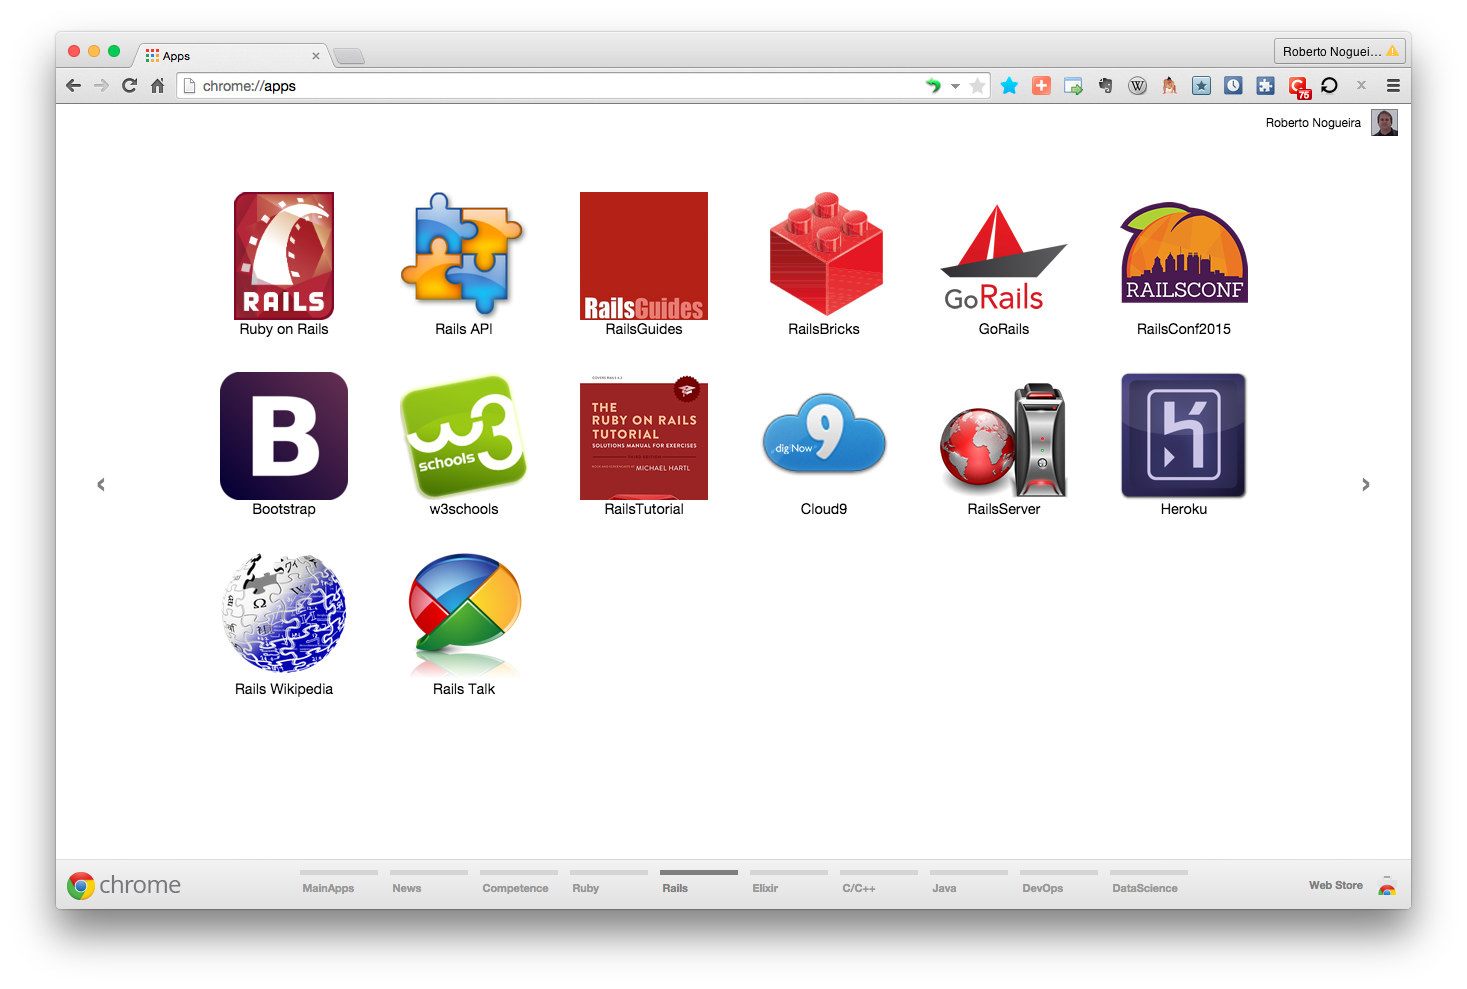
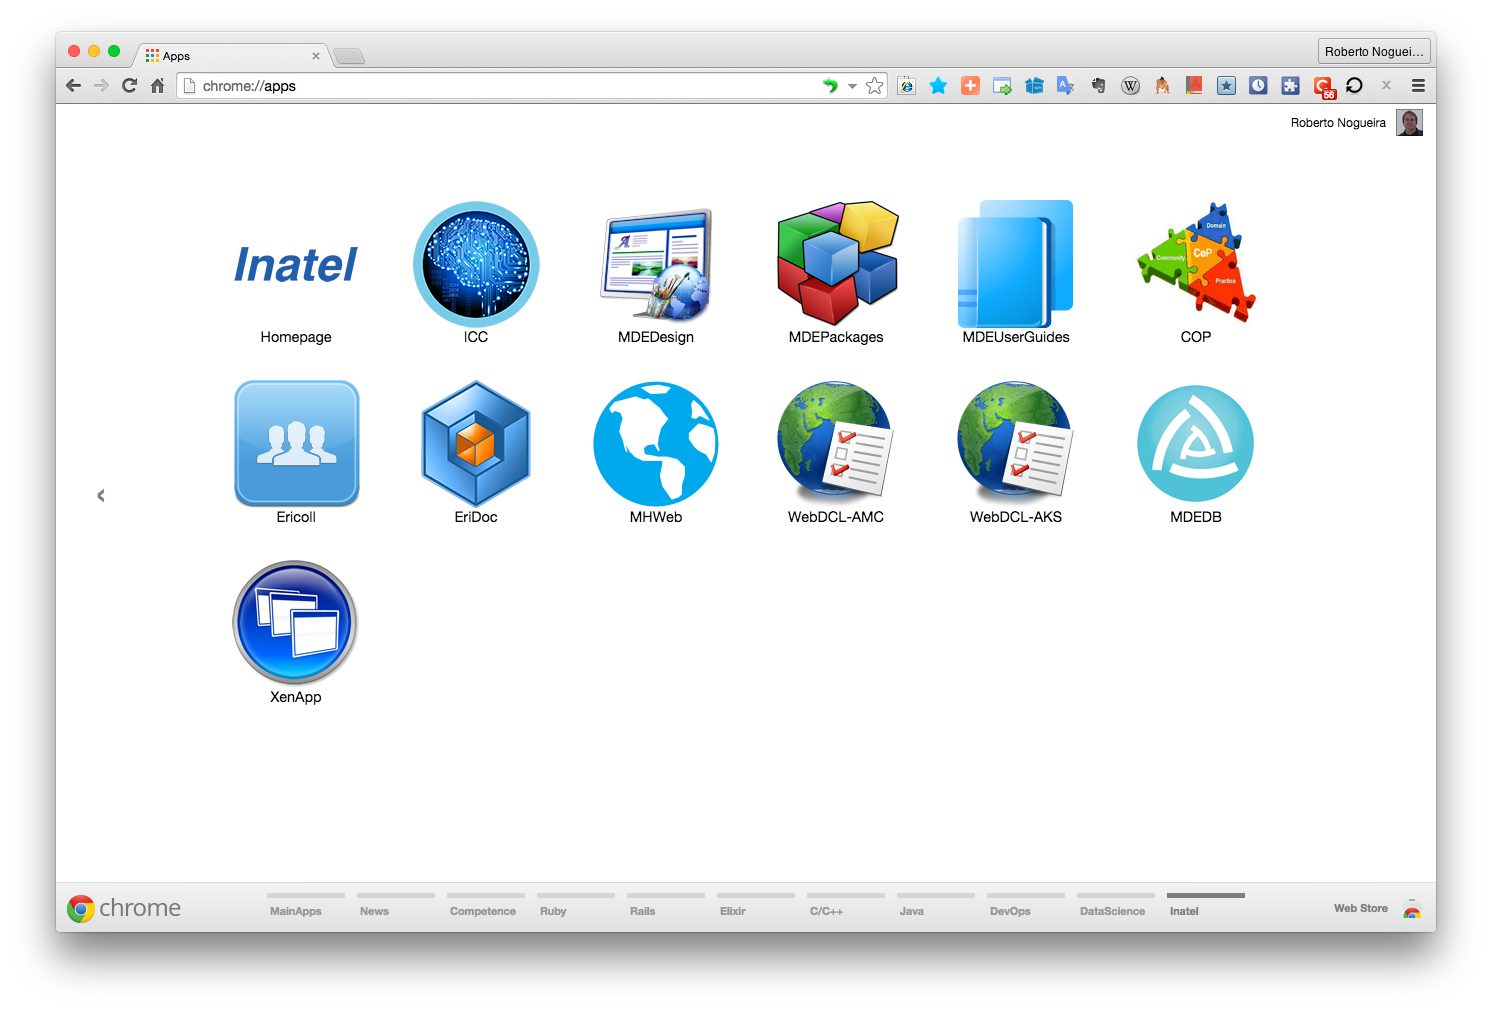
Update Inatel apps

diff --git a/README.md b/README.md
@@ -1,4 +1,4 @@
-# Chrome Apps for Rails
+# Chrome Apps for Inatel
 
 ![Chrome Apps logo](images/chrome_apps.png)
 
@@ -8,53 +8,43 @@
 Open a terminal give the following command:
 
 ```bash
-$ git clone https://github.com/enogrob/ChromeApps_Rails.git
+$ git clone https://github.com/enogrob/ChromeApps_Inatel.git
 ```
 
-As we can see a subdirectory is created for each Rails app.
+As we can see a subdirectory is created for each Inatel app.
 
 ```bash
-[TODAY (master)]$ ls -la
-total 40
-drwxr-xr-x@   8 enogrob  staff   272B Apr 26 23:35 ./
-drwxr-xr-x+ 138 enogrob  staff   4.6K Apr 26 05:51 ../
--rw-r--r--@   1 enogrob  staff   6.0K Apr 25 01:26 .DS_Store
--rw-r--r--    1 enogrob  staff     7B Apr 25 01:26 .ruby-gemset
--rw-r--r--    1 enogrob  staff    11B Apr 25 01:26 .ruby-version
--rw-r--r--    1 enogrob  staff     0B Apr 25 11:17 20150202_202034_localhost.log
-drwxr-xr-x   21 enogrob  staff   714B Apr 26 23:40 ChromeApps_Rails/
--rw-r--r--    1 enogrob  staff   139B Apr 26 23:35 today_data.yaml
+$ ls -la
+drwxr-xr-x@   8 enogrob  staff   272B Jun 19 05:03 ./
+drwxr-xr-x+ 142 enogrob  staff   4.7K Jun 18 20:00 ../
+:
+drwxr-xr-x   20 enogrob  staff   680B Jun 19 05:10 ChromeApps_Inatel/
+:
 
-$ tree -L 1 ChromeApps_Rails/
-ChromeApps_Rails/
+$ tree -L 1 ChromeApps_Inatel/
+ChromeApps_Inatel
+├── Inatel-COP
+├── Inatel-EriDoc
+├── Inatel-Ericoll
+├── Inatel-Homepage
+├── Inatel-ICC
+├── Inatel-MDEDB
+├── Inatel-MDEDesign
+├── Inatel-MDEPackages
+├── Inatel-MDEUserGuides
+├── Inatel-MHWeb
+├── Inatel-WebDCL-AKS
+├── Inatel-WebDCL-AMC
+├── Inatel-XenApp
 ├── README.md
-├── Rails-API
-├── Rails-APIdock-RSpec
-├── Rails-Bootstrap
-├── Rails-Capistrano
-├── Rails-Cloud9
-├── Rails-GoogleGroups
-├── Rails-Heroku
-├── Rails-Homepage
-├── Rails-Nitrous
-├── Rails-RailsBricks
-├── Rails-RailsConf2014
-├── Rails-RailsConf2015
-├── Rails-RailsGuides
-├── Rails-RailsServer
-├── Rails-RailsTutorial
-├── Rails-RailsWikipedia
-├── Rails-Railscasts
-├── Rails-GoRails
-├── Rails-w3schools
 └── images
 
-20 directories, 1 file
+14 directories, 1 file
 $
 ```
 
 ### 2. Open Chrome with the following url:
-In order to load the `Chrome Apps` for Ruby, check `Developer Mode` and press `Load unpacked extension...` to load each App selecting its corresponding directory inside `ChromeApps_Rails` e.g. `Rails-Homepage`, and then repeat that for the wanted apps.
+In order to load the `Chrome Apps` for Inatel, check `Developer Mode` and press `Load unpacked extension...` to load each App selecting its corresponding directory inside `ChromeApps_Inatel` e.g. `Inatel-Homepage`, and then repeat that for the wanted apps.
 
 ```
 chrome://extensions/
@@ -62,6 +52,10 @@ chrome://extensions/
 
 ![Chrome screenshot](images/chrome_screenshot1.png)
 
-### 3. After load the Chrome Apps wanted for Rails, Chrome will look like the screenshot below:
+### 3. After load the Chrome Apps wanted for Inatel, Chrome will look like the screenshot below:
 
 ![Chrome screenshot](images/chrome_screenshot2.png)
+
+***Notice:*** In order that the `Ericoll` and `EriDoc` sites work properly in Chrome the `IE Tab` extension shall be installed(see below), and in its options e.g. `Auto URLs`, add `*ericoll*` and `*eridoc*`.
+
+[IE Tab](https://chrome.google.com/webstore/detail/ie-tab/hehijbfgiekmjfkfjpbkbammjbdenadd?hl=en-US&utm_source=chrome-ntp-launcher)
